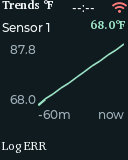
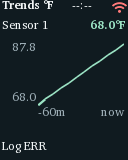
fix(lcd): probe names and all text on Overview and Trends use Charter; test the font of each widget role

diff --git a/firmware/components/display_service/display_view.cpp b/firmware/components/display_service/display_view.cpp
@@ -68,7 +68,7 @@ DisplayView::DisplayView() {
                                        : (compact ? "Trends" : "Temperature trends"));
         // On the compact screen the time makes room for a Wi-Fi icon at the right edge.
         s->time = label(s->root, compact ? 72 : 183, compact ? 0 : 10, compact ? 38 : 50,
-                        compact ? &lv_font_montserrat_12 : &lv_font_montserrat_14);
+                        compact ? &font_charter_regular_12 : &font_charter_regular_14);
         if (compact)
             s->wifi = label(s->root, 112, 0, 14, &lv_font_montserrat_12);
         s->footer = label(s->root, compact ? 2 : 10, compact ? 141 : 281, compact ? 124 : 225,
@@ -80,7 +80,7 @@ DisplayView::DisplayView() {
             const int top = large_trend ? 20 : (compact ? 17 + 24 * i : 40 + 47 * i);
             s->labels[i] =
                 label(s->root, compact ? 2 : 10, top, large_trend ? 70 : (compact ? 58 : 98),
-                      compact ? &lv_font_montserrat_12 : &lv_font_montserrat_14);
+                      compact ? &font_charter_regular_12 : &font_charter_regular_14);
             s->values[i] =
                 label(s->root, large_trend ? 74 : (compact ? 60 : 114), top,
                       large_trend ? 52 : (compact ? 66 : 116),
@@ -102,7 +102,7 @@ DisplayView::DisplayView() {
                 label(s->root, large_trend ? 2 : (compact ? 2 : (s == &overview_ ? 10 : 160)),
                       large_trend ? 122 : top + (compact ? 12 : 24),
                       large_trend ? 124 : (compact ? 124 : (s == &overview_ ? 210 : 72)),
-                      &lv_font_montserrat_12);
+                      &font_charter_regular_12);
             if (s == &trends_) {
                 auto *chart = lv_chart_create(s->root);
                 s->charts[i] = chart;
@@ -123,19 +123,19 @@ DisplayView::DisplayView() {
                 if (large_trend) {
                     for (auto *axis : {&s->axis_max[i], &s->axis_min[i]}) {
                         *axis = label(s->root, 0, axis == &s->axis_max[i] ? 42 : 92, 36,
-                                      &lv_font_montserrat_12);
+                                      &font_charter_regular_12);
                         lv_obj_set_style_text_align(*axis, LV_TEXT_ALIGN_RIGHT, 0);
                         lv_obj_set_style_text_color(*axis, lv_color_hex(setup_muted), 0);
                     }
                 }
                 s->no_data[i] = label(s->root, large_trend ? 4 : 12, large_trend ? 70 : top + 24,
-                                      large_trend ? 120 : 141, &lv_font_montserrat_12);
+                                      large_trend ? 120 : 141, &font_charter_regular_12);
                 text(s->no_data[i], "NO DATA");
             }
         }
         if (compact && s == &trends_) {
-            s->axis_from = label(s->root, 38, 107, 43, &lv_font_montserrat_12);
-            s->axis_now = label(s->root, 81, 107, 43, &lv_font_montserrat_12);
+            s->axis_from = label(s->root, 38, 107, 43, &font_charter_regular_12);
+            s->axis_now = label(s->root, 81, 107, 43, &font_charter_regular_12);
             lv_obj_set_style_text_align(s->axis_now, LV_TEXT_ALIGN_RIGHT, 0);
             for (auto *axis : {s->axis_from, s->axis_now})
                 lv_obj_set_style_text_color(axis, lv_color_hex(setup_muted), 0);

diff --git a/firmware/display_tests/display_tests.cpp b/firmware/display_tests/display_tests.cpp
@@ -1,3 +1,4 @@
+#include "charter_fonts.h"
 #include "display_view.hpp"
 #include "fake_bus.hpp"
 #include <algorithm>
@@ -454,6 +455,18 @@ int main(int argc, char **argv) {
         lv_obj_update_layout(lv_screen_active());
         auto *first_chart = view.trends_chart(0);
         CHECK(lv_obj_get_width(first_chart) == 86 && lv_obj_get_height(first_chart) == 64);
+        {
+            // Fonts by role: serif (Charter) for every piece of text on the Overview and Trends
+            // screens; the Wi-Fi icon is a symbol and stays in Montserrat.
+            auto font_of = [](lv_obj_t *obj) {
+                return lv_obj_get_style_text_font(obj, LV_PART_MAIN);
+            };
+            CHECK(font_of(view.trends_label(0)) == &font_charter_regular_12);
+            CHECK(font_of(view.trends_value(0)) == &font_charter_bold_12);
+            CHECK(font_of(view.footer_label()) == &font_charter_regular_12);
+            CHECK(font_of(view.trends_status(0)) == &font_charter_regular_12);
+            CHECK(font_of(view.wifi_icon()) == &lv_font_montserrat_12); // a symbol, not text
+        }
         {
             // The compact graph says what it shows: the unit, the highest and lowest value, and
             // the time span.

diff --git a/firmware/components/display_service/include/display_view.hpp b/firmware/components/display_service/include/display_view.hpp
@@ -34,6 +34,9 @@ class DisplayView {
     lv_obj_t *trends_chart(size_t sensor) const {
         return trends_.charts[sensor];
     }
+    lv_obj_t *trends_value(size_t sensor) const {
+        return trends_.values[sensor];
+    }
     lv_obj_t *trends_axis_max(size_t sensor) const {
         return trends_.axis_max[sensor];
     }

diff --git a/docs/FONTS.md b/docs/FONTS.md
@@ -2,10 +2,11 @@
 
 The LCD uses two typefaces:
 
-- **Bitstream Charter** (serif) for the screen title, probe names and the temperature values, in
-  regular and bold at 12, 14 and 24 px. The 12 px sizes are used on the compact 1.8-inch screen.
-- **Montserrat** (sans-serif, built into LVGL) for small status text, the time, the axis labels,
-  the setup screens (where codes are typed by hand) and the Wi-Fi icon, which is a Montserrat symbol.
+- **Bitstream Charter** (serif) for all text on the Overview and Trends screens: titles, probe names,
+  temperature values (bold), the second unit, status words, the time, the axis labels and the footer,
+  at 12, 14 and 24 px. The 12 px sizes are used on the compact 1.8-inch screen.
+- **Montserrat** (sans-serif, built into LVGL) for the setup screens (where codes are typed by hand)
+  and for the Wi-Fi icon, which is a Montserrat symbol.
 
 Charter files are in `firmware/components/display_service/fonts/` (about 26 KB of bitmap data in
 total). They contain only basic Latin (U+0020 to U+007E) and the degree sign; there is no kerning
